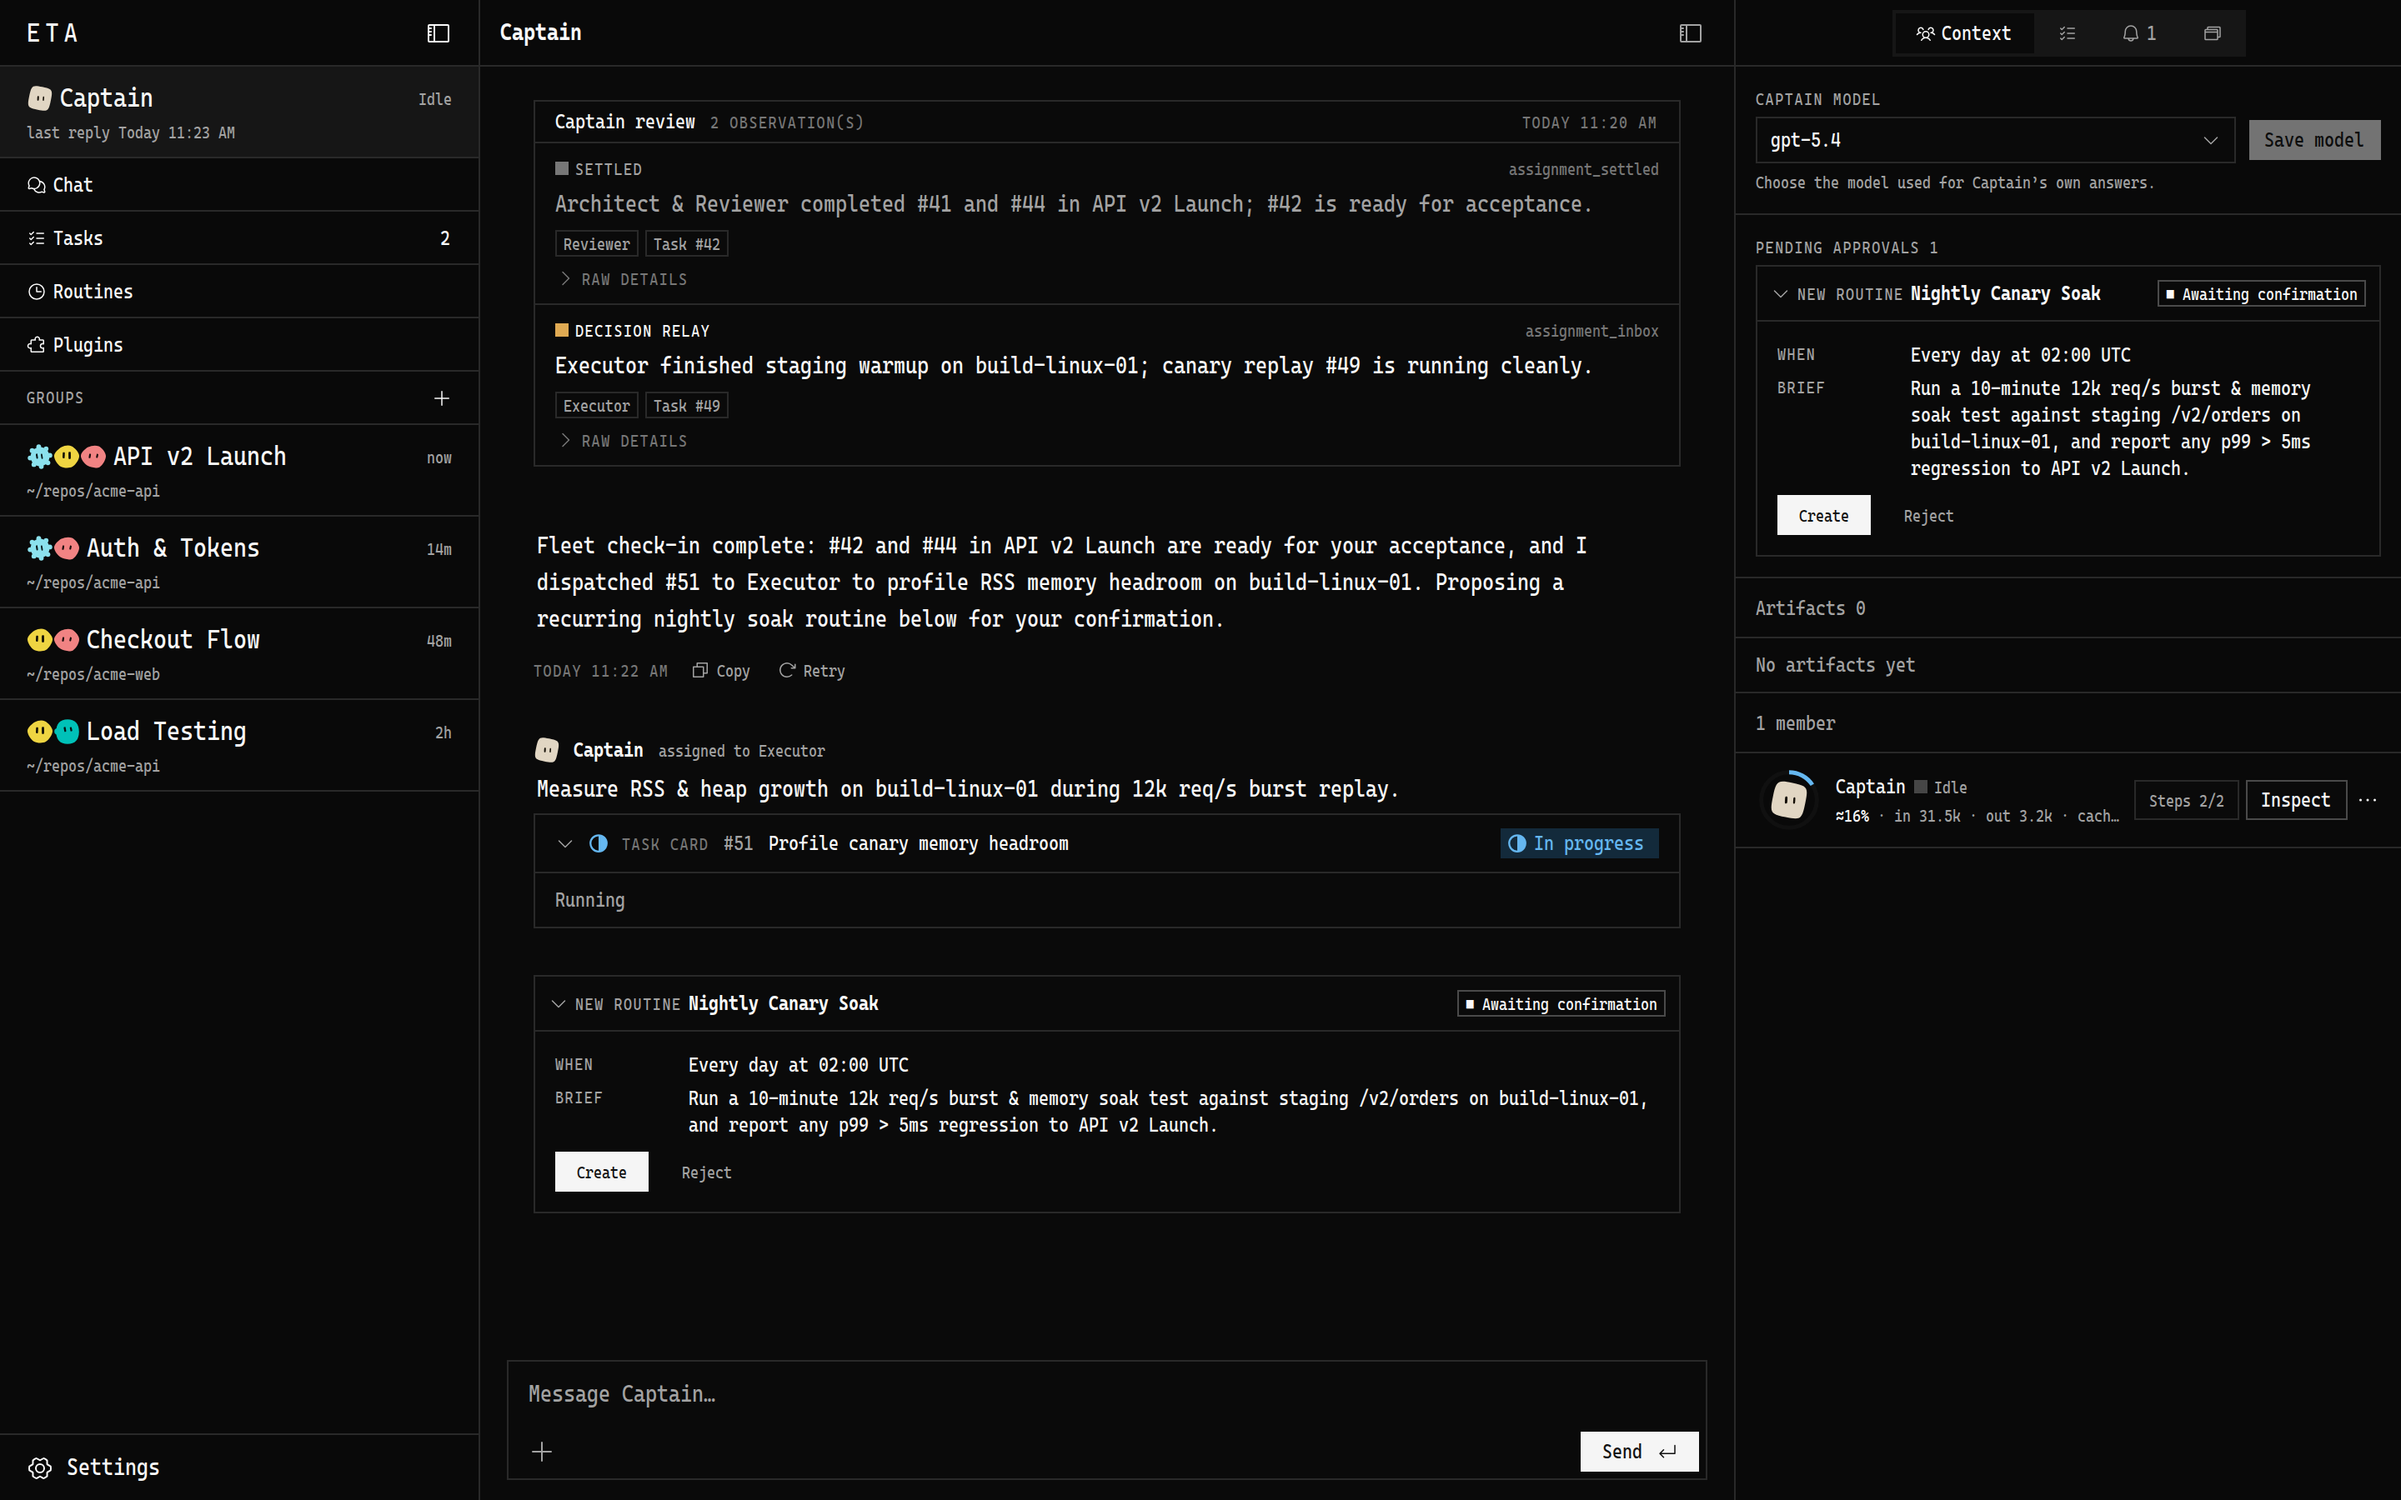
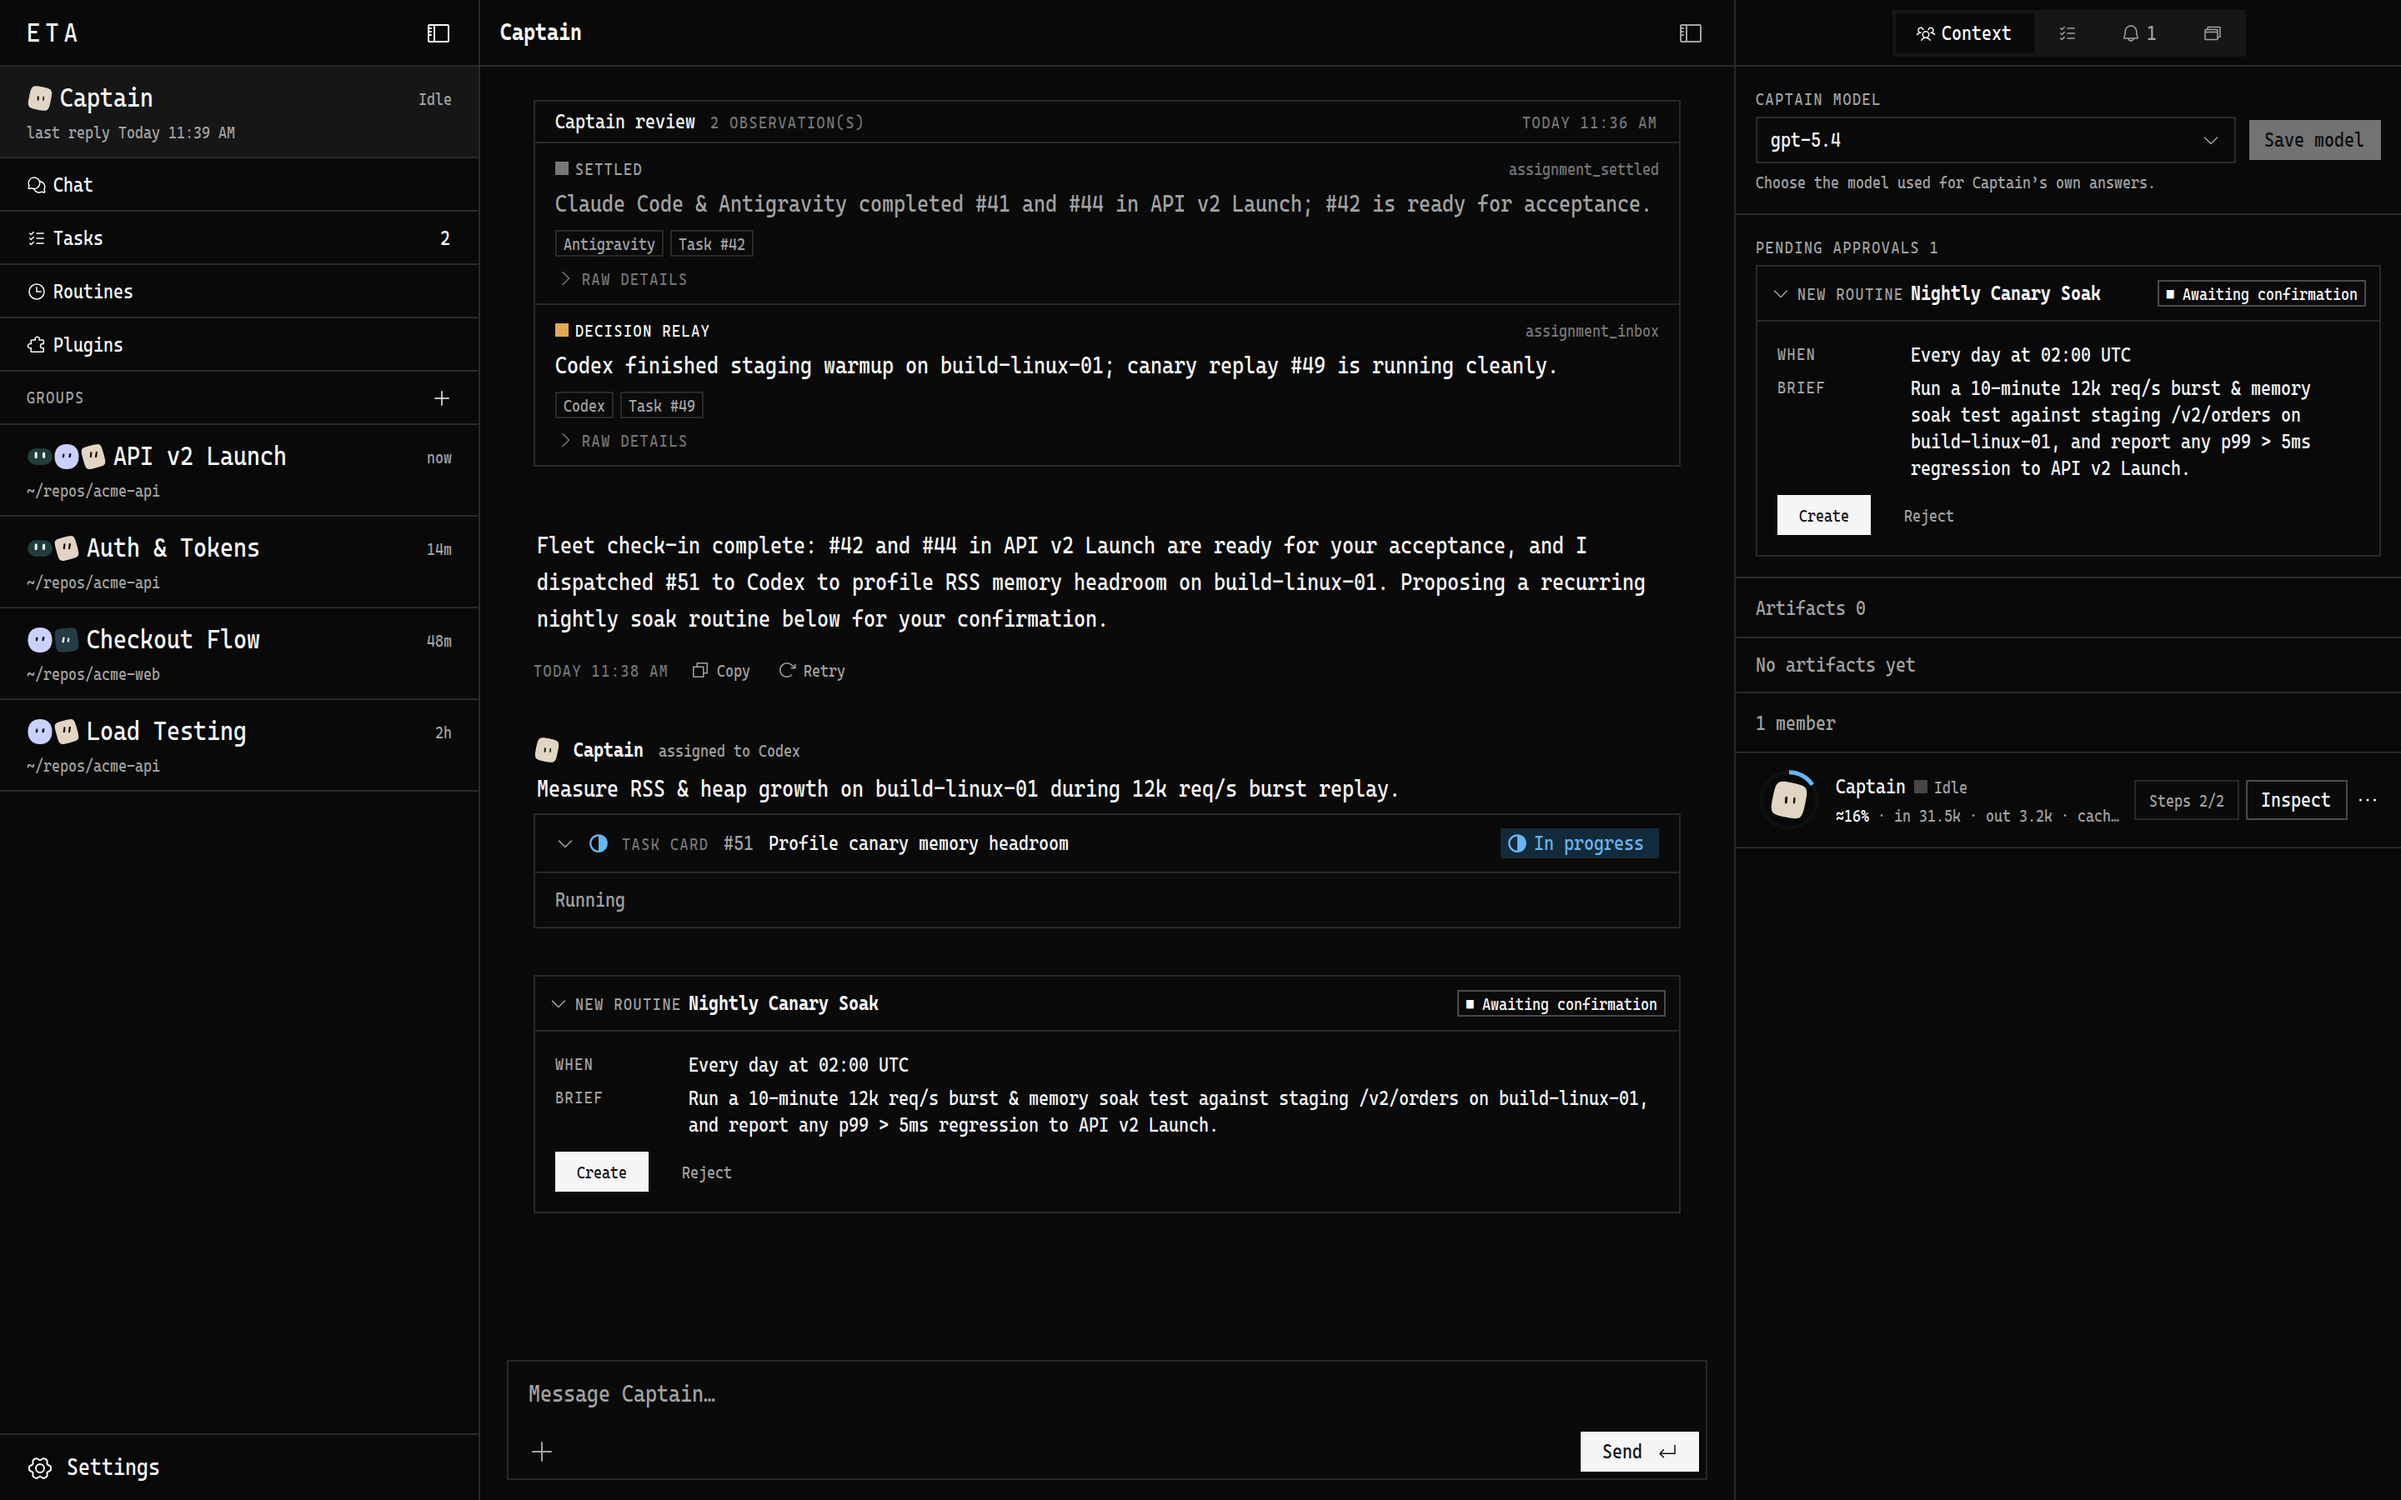
docs(readme): lead with multi-agent control plane and group chat screenshot

diff --git a/README.zh-CN.md b/README.zh-CN.md
@@ -15,23 +15,33 @@
 </p>
 
 <p align="center">
+  <a href="#一个控制台统管所有编码-agent">多运行时</a> ·
   <a href="#快速安装">快速安装</a> ·
   <a href="#多-agent-协同作战室">作战室</a> ·
   <a href="#captain-舰队总控">Captain</a> ·
   <a href="#任务看板与依赖编排">任务编排</a> ·
-  <a href="#一个控制台统管所有编码-agent">多运行时</a> ·
   <a href="#跨机器分布式执行">多机扩展</a> ·
   <a href="#架构总览">架构</a> ·
   <a href="#相关文档">文档</a>
 </p>
 
+---
+
+## 一个控制台，统管所有编码 Agent
+
+把不同的编码 Agent 拉进**同一个群聊**，让它们一起讨论方案、写代码、做审查与接力交付 —— 共享同一套任务看板、可视化产物、MCP 工具与审批门禁：
+
 <p align="center">
   <img
     src="public/screenshot-war-room.png"
-    alt="Eta 多 Agent 协同作战室：展示项目群组、@提及协作、任务卡 #42、内联产物卡片与右侧实时成员面板"
+    alt="Eta 群聊页面：展示 Claude Code、Codex、Antigravity 与 OpenCode 在同一个项目群里通过 @提及 实时协作，以及内联产物卡片与成员状态面板"
     width="900"
   />
 </p>
+
+- **内置 Eta Agent** —— 接上任意 API Key、订阅账号或私有端点即可开箱使用。
+- **主流编码 CLI（由 OAR 统一驱动）** —— **Claude Code**、**Codex**、**Antigravity**、**OpenCode**、**Pi**、**Grok Build** 与 **Qwen Code**。
+- **任意 [ACP](https://agentclientprotocol.com) Agent** —— 在任意机器上按需接入自定义或社区的 Agent Client Protocol 兼容 Agent。
 
 ---
 
@@ -94,7 +104,7 @@ docker compose -f deploy/compose.yaml exec eta cat /data/.eta/access-token
 ### 上手前 60 秒
 
 1. **接入模型或本地 Agent：** 打开 **Settings → Model services**，使用设备码登录 ChatGPT/Codex 或 Grok 订阅，或填写 OpenAI / Anthropic / Gemini / 任意自定义端点 API Key；本机已安装的 **Claude Code**、**Codex**、**Antigravity**、**OpenCode**、**Pi** 和 **ACP** Agent 会自动识别。
-2. **组建专职小队：** 按职责创建不同角色的 Agent（例如 `Architect`、`Executor`、`Reviewer`），各自配置指令、模型与技能，再把它们拉入同一个项目群组。
+2. **组建多 Agent 项目群：** 把不同专长的编码 Agent（例如 `Claude Code`、`Codex`、`Antigravity`、`OpenCode` 或内置 Eta Agent）拉进同一个项目群组，各自配置指令、模型与技能。
 3. **派发 Worktree 隔离任务：** 在作战室 `@` 点名协同，或将工作送上任务看板 —— 每个任务都会签出独立的 `git worktree`（`eta/task-<N>`），实时上报进度并在完成后交付验收。
 
 ---
@@ -103,7 +113,7 @@ docker compose -f deploy/compose.yaml exec eta cat /data/.eta/access-token
 
 把每个代码仓库都变成多人协同的工程作战室，让专职 Agent 与你在同一条时间线上自然配合：
 
-- **一室多角，分工协同：** 把架构师、执行者和审查者放进同一个项目群聊；用 `@` 点名指定成员，或设置默认 **Steward** 统一接管，Agent 之间也能主动互相交接任务。
+- **一室多角，分工协同：** 把 `Claude Code`、`Codex`、`Antigravity`、`OpenCode` 与内置 Eta Agent 放进同一个项目群聊；用 `@` 点名指定成员，或设置默认 **Steward** 统一接管，Agent 之间也能主动互相交接任务。
 - **并行推进，随时纠偏：** 多个 Agent 可以同时开工互不等待；运行途中随时插话引导方向，或先把下一条指令排进队列。
 - **决策与产出同屏直达：** 在对话流里直接确认任务草案、追踪实时任务卡进度，并一键打开 Agent 交付的交互式网页预览。
 
@@ -144,16 +154,6 @@ docker compose -f deploy/compose.yaml exec eta cat /data/.eta/access-token
 - **可视化依赖编排：** 将复杂需求拆成子任务并连线设定前置依赖；上游任务进入验收或完成后自动放行下游 —— **Plan**（DAG 依赖图）、**Board**（看板）与 **List** 视图随时切换。
 - **带着完整上下文继续返工：** 验收任务时直接在任务下留言提出修改意见，Agent 会沿着同一份记忆无缝接着改，无需从头再来。
 - **执行全程透明可见：** 在任务卡片里直接查看工具执行记录、文件 Diff、终端输出与 Token 用量统计。
-
----
-
-## 一个控制台，统管所有编码 Agent
-
-在同一个群组里自由混编你顺手的运行时 —— 所有 Agent 共用同一套任务看板、可视化产物、MCP 工具与审批门禁：
-
-- **内置 Eta Agent** —— 接上任意 API Key、订阅账号或私有端点即可开箱使用。
-- **主流编码 CLI（由 OAR 统一驱动）** —— **Claude Code**、**Codex**、**Antigravity**、**OpenCode**、**Pi**、**Grok Build** 与 **Qwen Code**。
-- **任意 [ACP](https://agentclientprotocol.com) Agent** —— 在任意机器上按需接入自定义或社区的 Agent Client Protocol 兼容 Agent。
 
 ---
 
@@ -222,7 +222,7 @@ docker compose -f deploy/compose.yaml exec eta cat /data/.eta/access-token
 eta-host upgrade
 ```
 
-`eta-host upgrade` 会自动校验 `SHA256SUMS`、等待正在执行的任务平滑收尾、将 `~/.eta/eta.sqlite` 备份至 `~/.eta/backups`、重启服务，并在新版本未能正常启动时自动回滚；已连接的 `eta-daemon` 节点会在重连时同步更新，桌面端与 Android 客户端同样可在 **Settings → Update** 完成升级。
+`eta-host upgrade` 会自动校验 `SHA256SUMS`、等待正在执行的任务平滑收尾、将 `~/.eta/eta.sqlite` 备份至 `~/.eta/backups`、重启服务，并在新版本未能正常启动时自动回滚；已连接的 `eta-daemon` 节点会在重连时同步更新。桌面端与 Android 客户端同样可在 **Settings → Update** 完成升级。
 
 ## 相关文档
 

diff --git a/README.md b/README.md
@@ -15,23 +15,33 @@
 </p>
 
 <p align="center">
+  <a href="#any-coding-agent-one-control-plane">Agents</a> ·
   <a href="#install">Install</a> ·
   <a href="#multi-agent-war-rooms">War Rooms</a> ·
   <a href="#captain">Captain</a> ·
   <a href="#task-board--dependency-plans">Task Plans</a> ·
-  <a href="#any-coding-agent-one-control-plane">Agents</a> ·
   <a href="#ship-across-every-machine">Machines</a> ·
   <a href="#architecture">Architecture</a> ·
   <a href="#documentation">Docs</a>
 </p>
 
+---
+
+## Any Coding Agent, One Control Plane
+
+Bring different coding agents into the **same group chat** so they can plan, code, review, and hand off work together — sharing one task board, visual artifacts, MCP tools, and approval gates:
+
 <p align="center">
   <img
     src="public/screenshot-war-room.png"
-    alt="Eta Multi-Agent War Room showing project groups, @mention collaboration, task card #42, inline benchmark artifact, and live member panel"
+    alt="Eta group chat with Claude Code, Codex, Antigravity, and OpenCode collaborating via @mentions alongside inline benchmark artifacts and live member status"
     width="900"
   />
 </p>
+
+- **Built-in Eta agent** — works out of the box with any API key, subscription, or local model.
+- **Major coding CLIs (powered by OAR)** — **Claude Code**, **Codex**, **Antigravity**, **OpenCode**, **Pi**, **Grok Build**, and **Qwen Code**.
+- **Any [ACP](https://agentclientprotocol.com) agent** — plug in custom or community Agent Client Protocol agents on any machine.
 
 ---
 
@@ -94,7 +104,7 @@ docker compose -f deploy/compose.yaml exec eta cat /data/.eta/access-token
 ### First 60 Seconds
 
 1. **Connect models or local agents:** Open **Settings → Model services** to sign in with ChatGPT/Codex or Grok via device code, or paste OpenAI / Anthropic / Gemini / custom API keys. Any locally installed **Claude Code**, **Codex**, **Antigravity**, **OpenCode**, **Pi**, or **ACP** agent is discovered automatically.
-2. **Assemble a specialist group:** Create agents for distinct roles (`Architect`, `Executor`, `Reviewer`), give each its own instructions, model, and skills, and bring them into a project group.
+2. **Assemble a specialist group:** Add distinct coding agents (`Claude Code`, `Codex`, `Antigravity`, `OpenCode`, or built-in Eta agents) with tailored instructions, models, and skills into a shared project group.
 3. **Dispatch worktree-isolated tasks:** `@mention` teammates in the war room or promote work onto the Task Board — each task checks out its own `git worktree` (`eta/task-<N>`), tracks live progress, and reports back for your review.
 
 ---
@@ -103,7 +113,7 @@ docker compose -f deploy/compose.yaml exec eta cat /data/.eta/access-token
 
 Turn every repository into a shared war room where specialist agents collaborate alongside you on one timeline:
 
-- **One room, specialized teammates:** Drop an Architect, Executor, and Reviewer into the same project chat; `@mention` whoever you need or designate a default **Steward**, and let agents hand work off to each other naturally.
+- **One room, specialized teammates:** Mix `Claude Code`, `Codex`, `Antigravity`, `OpenCode`, or built-in Eta agents in the same project chat; `@mention` whoever you need or designate a default **Steward**, and let agents hand work off to each other naturally.
 - **Parallel work, mid-flight steering:** Run multiple agents side by side without waiting; jump in mid-turn to steer a running agent onto a better path or queue your next instruction.
 - **Decisions and deliverables in one place:** Confirm task proposals, follow live progress cards, and open interactive web previews right inside the conversation.
 
@@ -144,16 +154,6 @@ Keep chat for alignment and move execution onto the **Task Board**, where every 
 - **Visual dependency plans:** Split big features into subtasks and chain dependencies so downstream steps start automatically when prerequisites hit review or finish — across **Plan** (DAG), **Board** (Kanban), and **List** views.
 - **Review with full memory intact:** Comment directly on a task in review to request tweaks; the agent continues in the same session without losing context.
 - **Full visibility on every run:** Follow live tool activity, file diffs, terminal output, and token rollups right on the task card.
-
----
-
-## Any Coding Agent, One Control Plane
-
-Mix your favorite runtimes inside the same group — every agent shares the same task board, visual artifacts, MCP tools, and approval gates:
-
-- **Built-in Eta agent** — works out of the box with any API key, subscription, or local model.
-- **Major coding CLIs (powered by OAR)** — **Claude Code**, **Codex**, **Antigravity**, **OpenCode**, **Pi**, **Grok Build**, and **Qwen Code**.
-- **Any [ACP](https://agentclientprotocol.com) agent** — plug in custom or community Agent Client Protocol agents on any machine.
 
 ---
 
